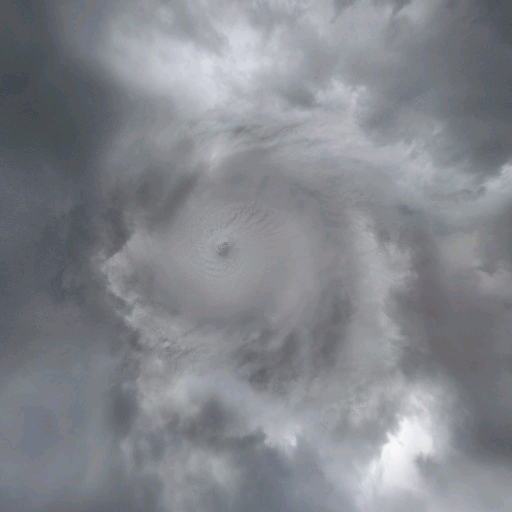
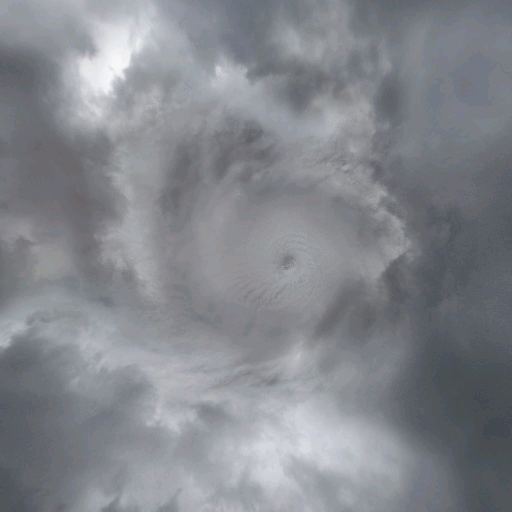
fixed skybox culling and modified texture buffering

diff --git a/Engine/Scene.cpp b/Engine/Scene.cpp
@@ -244,25 +244,25 @@ void Scene::DrawSkybox(float size, float3 pos)
 	glDisable(GL_DEPTH_TEST);
 	glEnable(GL_TEXTURE_2D);
 
-	//back face
+	//back face GOOD
 	glBindTexture(GL_TEXTURE_2D, skybox[SkyBoxSide::SKY_BACK]);
 	glBegin(GL_QUADS);
-	glTexCoord2f(0, 0); glVertex3f(size / 2 + pos.x, size / 2 + pos.y, size / 2 + pos.z);
 	glTexCoord2f(1, 0); glVertex3f(-size / 2 + pos.x, size / 2 + pos.y, size / 2 + pos.z);
-	glTexCoord2f(1, 1); glVertex3f(-size / 2 + pos.x, -size / 2 + pos.y, size / 2 + pos.z);
+	glTexCoord2f(0, 0); glVertex3f(size / 2 + pos.x, size / 2 + pos.y, size / 2 + pos.z);
 	glTexCoord2f(0, 1); glVertex3f(size / 2 + pos.x, -size / 2 + pos.y, size / 2 + pos.z);
+	glTexCoord2f(1, 1); glVertex3f(-size / 2 + pos.x, -size / 2 + pos.y, size / 2 + pos.z);
 	glEnd();
 
-	//left face
+	//left face GOOD
 	glBindTexture(GL_TEXTURE_2D, skybox[SkyBoxSide::SKY_LEFT]);
 	glBegin(GL_QUADS);
-	glTexCoord2f(0, 0); glVertex3f(-size / 2 + pos.x, size / 2 + pos.y, size / 2 + pos.z);
-	glTexCoord2f(1, 0); glVertex3f(-size / 2 + pos.x, size / 2 + pos.y, -size / 2 + pos.z);
-	glTexCoord2f(1, 1); glVertex3f(-size / 2 + pos.x, -size / 2 + pos.y, -size / 2 + pos.z);
 	glTexCoord2f(0, 1); glVertex3f(-size / 2 + pos.x, -size / 2 + pos.y, size / 2 + pos.z);
+	glTexCoord2f(1, 1); glVertex3f(-size / 2 + pos.x, -size / 2 + pos.y, -size / 2 + pos.z);
+	glTexCoord2f(1, 0); glVertex3f(-size / 2 + pos.x, size / 2 + pos.y, -size / 2 + pos.z);
+	glTexCoord2f(0, 0); glVertex3f(-size / 2 + pos.x, size / 2 + pos.y, size / 2 + pos.z);
 	glEnd();
 
-	//front face
+	//front face GOOD
 	glBindTexture(GL_TEXTURE_2D, skybox[SkyBoxSide::SKY_FRONT]);
 	glBegin(GL_QUADS);
 	glTexCoord2f(1, 0); glVertex3f(size / 2 + pos.x, size / 2 + pos.y, -size / 2 + pos.z);
@@ -274,13 +274,13 @@ void Scene::DrawSkybox(float size, float3 pos)
 	//right face
 	glBindTexture(GL_TEXTURE_2D, skybox[SkyBoxSide::SKY_RIGHT]);
 	glBegin(GL_QUADS);
-	glTexCoord2f(0, 0); glVertex3f(size / 2 + pos.x, size / 2 + pos.y, -size / 2 + pos.z);
-	glTexCoord2f(1, 0); glVertex3f(size / 2 + pos.x, size / 2 + pos.y, size / 2 + pos.z);
-	glTexCoord2f(1, 1); glVertex3f(size / 2 + pos.x, -size / 2 + pos.y, size / 2 + pos.z);
 	glTexCoord2f(0, 1); glVertex3f(size / 2 + pos.x, -size / 2 + pos.y, -size / 2 + pos.z);
+	glTexCoord2f(1, 1); glVertex3f(size / 2 + pos.x, -size / 2 + pos.y, size / 2 + pos.z);
+	glTexCoord2f(1, 0); glVertex3f(size / 2 + pos.x, size / 2 + pos.y, size / 2 + pos.z);
+	glTexCoord2f(0, 0); glVertex3f(size / 2 + pos.x, size / 2 + pos.y, -size / 2 + pos.z);
 	glEnd();
 
-	//top face
+	//top face GOOD
 	glBindTexture(GL_TEXTURE_2D, skybox[SkyBoxSide::SKY_TOP]);
 	glBegin(GL_QUADS);
 	glTexCoord2f(1, 0); glVertex3f(size / 2 + pos.x, size / 2 + pos.y, size / 2 + pos.z);
@@ -289,13 +289,14 @@ void Scene::DrawSkybox(float size, float3 pos)
 	glTexCoord2f(1, 1); glVertex3f(size / 2 + pos.x, size / 2 + pos.y, -size / 2 + pos.z);
 	glEnd();
 
-	//bottom face
+	//bottom face GOOD
 	glBindTexture(GL_TEXTURE_2D, skybox[SkyBoxSide::SKY_BOTTOM]);
 	glBegin(GL_QUADS);
-	glTexCoord2f(1, 1); glVertex3f(size / 2 + pos.x, -size / 2 + pos.y, size / 2 + pos.z);
-	glTexCoord2f(0, 1); glVertex3f(-size / 2 + pos.x, -size / 2 + pos.y, size / 2 + pos.z);
-	glTexCoord2f(0, 0); glVertex3f(-size / 2 + pos.x, -size / 2 + pos.y, -size / 2 + pos.z);
-	glTexCoord2f(1, 0); glVertex3f(size / 2 + pos.x, -size / 2 + pos.y, -size / 2 + pos.z);
+	glTexCoord2f(0, 0); glVertex3f(size / 2 + pos.x, -size / 2 + pos.y, size / 2 + pos.z);
+	glTexCoord2f(0, 1); glVertex3f(size / 2 + pos.x, -size / 2 + pos.y, -size / 2 + pos.z);
+	glTexCoord2f(1, 1); glVertex3f(-size / 2 + pos.x, -size / 2 + pos.y, -size / 2 + pos.z);
+	glTexCoord2f(1, 0); glVertex3f(-size / 2 + pos.x, -size / 2 + pos.y, size / 2 + pos.z);
+
 	glEnd();
 
 	if (App->renderer3D->lighting)

diff --git a/Engine/CompMesh.cpp b/Engine/CompMesh.cpp
@@ -114,12 +114,12 @@ void CompMesh::Init(const float3* vert, const uint* ind, const float3* vert_norm
 
 void CompMesh::SetupMesh()
 {
-	glGenVertexArrays(1, &VAO);
+	//glGenVertexArrays(1, &VAO);
 	glGenBuffers(1, &vertices_id);
 	glGenBuffers(1, &indices_id);
 	glGenBuffers(1, &vertices_norm_id);
 
-	glBindVertexArray(VAO);
+	//glBindVertexArray(VAO);
 
 	glBindBuffer(GL_ARRAY_BUFFER, vertices_id);
 	glBufferData(GL_ARRAY_BUFFER, vertices.size() * sizeof(_Vertex), &vertices[0], GL_STATIC_DRAW);
@@ -133,15 +133,16 @@ void CompMesh::SetupMesh()
 		glBufferData(GL_ELEMENT_ARRAY_BUFFER, vertices_normals.size() * sizeof(float3), &vertices_normals[0], GL_STATIC_DRAW);
 	}
 
-	// Vertex Positions -------------
-	glEnableVertexAttribArray(0);
-	glVertexAttribPointer(0, 3, GL_FLOAT, GL_FALSE, sizeof(_Vertex), (void*)0);
+	//// Vertex Positions -------------
+	//glEnableVertexAttribArray(0);
+	//glVertexAttribPointer(0, 3, GL_FLOAT, GL_FALSE, sizeof(_Vertex), (void*)0);
 
-	// Vertex Normals ----------------
-	glEnableVertexAttribArray(1);
-	glVertexAttribPointer(1, 3, GL_FLOAT, GL_FALSE, sizeof(_Vertex), (void*)offsetof(_Vertex, norm));
+	//// Vertex Normals ----------------
+	//glEnableVertexAttribArray(1);
+	//glVertexAttribPointer(1, 3, GL_FLOAT, GL_FALSE, sizeof(_Vertex), (void*)offsetof(_Vertex, norm));
 
-	glBindVertexArray(0);
+	//glBindVertexArray(0);
+	glBindBuffer(GL_ARRAY_BUFFER, 0);
 }
 
 
@@ -184,7 +185,10 @@ void CompMesh::Draw()
 
 		if (vertices.size() > 0 && indices.size() > 0)
 		{
-			glBindTexture(GL_TEXTURE_2D, 0);
+			glEnableClientState(GL_VERTEX_ARRAY);
+			glEnableClientState(GL_NORMAL_ARRAY);
+			glEnableClientState(GL_ELEMENT_ARRAY_BUFFER);
+			glEnableClientState(GL_TEXTURE_COORD_ARRAY);
 
 			//Set Wireframe
 			if (App->renderer3D->wireframe)
@@ -208,20 +212,15 @@ void CompMesh::Draw()
 				glBindTexture(GL_TEXTURE_2D, temp->GetTextureID());
 			}
 
-			//for (uint i = 0; i < textures.size(); i++)
-			//{
-			//	glBindTexture(GL_TEXTURE_2D, textures[i].id);
-			//}
-
-			glEnableClientState(GL_VERTEX_ARRAY);
-			glEnableClientState(GL_ELEMENT_ARRAY_BUFFER);
-
 			glBindBuffer(GL_ARRAY_BUFFER, vertices_id); //VERTEX ID
 			glVertexPointer(3, GL_FLOAT, sizeof(_Vertex), NULL);
-
+			glNormalPointer(GL_FLOAT, sizeof(_Vertex), (void*)offsetof(_Vertex, norm));
+			glTexCoordPointer(2, GL_FLOAT, sizeof(_Vertex), (void*)offsetof(_Vertex, texCoords));
+			glBindBuffer(GL_ARRAY_BUFFER, 0);
 
 			glBindBuffer(GL_ELEMENT_ARRAY_BUFFER, indices_id); // INDICES ID
 			glDrawElements(GL_TRIANGLES, indices.size(), GL_UNSIGNED_INT, NULL);
+			glBindBuffer(GL_ELEMENT_ARRAY_BUFFER, 0);
 
 			// NORMALS ----------------------------------
 			if (App->renderer3D->normals && hasNormals)
@@ -232,15 +231,19 @@ void CompMesh::Draw()
 				glBindBuffer(GL_ARRAY_BUFFER, 0);
 			}
 
+			//Reset TextureColor
 			glColor4f(1.0f, 1.0f, 1.0f, 1.0f);
-			glDisableClientState(GL_VERTEX_ARRAY);
-			glDisableClientState(GL_ELEMENT_ARRAY_BUFFER);
+			glBindTexture(GL_TEXTURE_2D, 0);
 
 			//Disable Wireframe -> only this object will be wireframed
 			if (App->renderer3D->wireframe)
 			{
 				glPolygonMode(GL_FRONT_AND_BACK, GL_FILL);
 			}
+			glDisableClientState(GL_VERTEX_ARRAY);
+			glDisableClientState(GL_NORMAL_ARRAY);
+			glDisableClientState(GL_ELEMENT_ARRAY_BUFFER);
+			glDisableClientState(GL_TEXTURE_COORD_ARRAY);
 		}
 
 		else

diff --git a/Engine/ModuleRenderer3D.cpp b/Engine/ModuleRenderer3D.cpp
@@ -199,7 +199,7 @@ update_status ModuleRenderer3D::PostUpdate(float dt)
 	perf_timer.Start();
 	
 	// Draw Skybox
-	App->scene->DrawSkybox(300, active_camera->frustum.pos);
+	App->scene->DrawSkybox(500, active_camera->frustum.pos);
 
 	//Draw Test Cube
 	App->scene->DrawCube(5);
